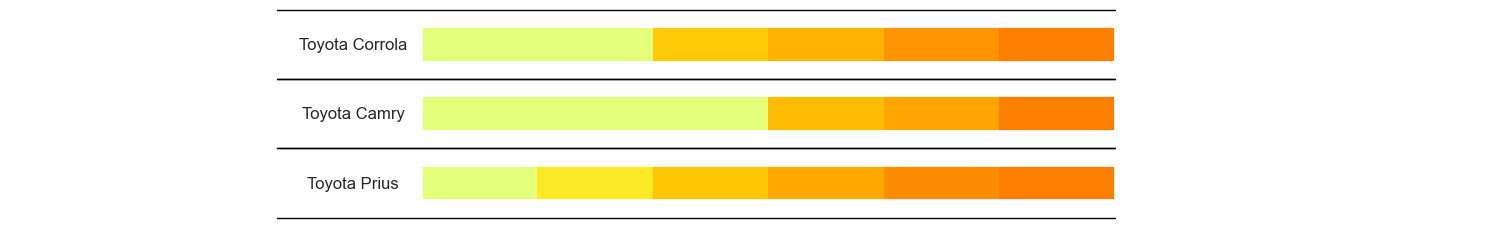
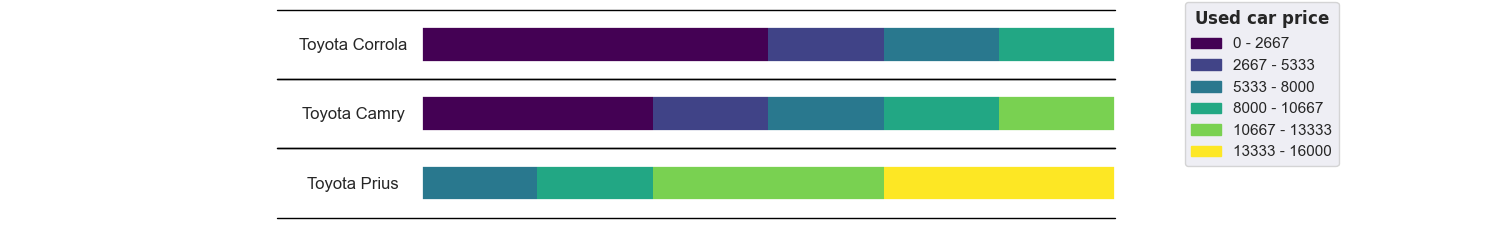
revamp readme

Changed region(s): [[0.276, 0.0933, 0.8893, 0.7467], [0.276, 0.7156, 0.7667, 0.9022], [0.7973, 0.0, 0.8893, 0.1244]]

diff --git a/pair_dot_plot.py b/pair_dot_plot.py
@@ -21,7 +21,15 @@ def make_new_df(df):
     df2['original_index'] = None
     return df2
 
-def dot_pair_plot(df, title, first_label, second_label):
+def dot_pair_plot(
+        df,
+        title,
+        first_label,
+        second_label,
+        color_one='#FC8D62',
+        color_two='#65C2A5'
+    ):
+
     df2 = make_new_df(df)
     fig, ax = plt.subplots(figsize=(8, 6), dpi=150)
     for i in df.index:
@@ -33,17 +41,17 @@ def dot_pair_plot(df, title, first_label, second_label):
                  linewidth=1)
 
         if (abs(x[0] - x[1]) < 1.0):
-            plt.text(x[0]+4, y[0], df.iloc[i, 2], horizontalalignment='left', verticalalignment='center', weight='bold')
-            plt.text(x[1]-4, y[1], df.iloc[i, 3], horizontalalignment='right', verticalalignment='center')
+            plt.text(x[0]+4, y[0], df.iloc[i, 2] + ' ({})'.format(df.iloc[i, 0]), horizontalalignment='left', verticalalignment='center', weight='bold')
+            plt.text(x[1]-4, y[1], df.iloc[i, 3] + ' ({})'.format(df.iloc[i, 1]), horizontalalignment='right', verticalalignment='center')
             df2.loc[df.index[i]] = df.iloc[i]
             df2.loc[df.index[i], 'original_index'] = i
             df = df.drop(df.index[[i]])
         elif x[0] > x[1]:
-            plt.text(x[0]+4, y[0], df.iloc[i, 2], horizontalalignment='left', verticalalignment='center', weight='bold')
-            plt.text(x[1]-4, y[1], df.iloc[i, 3], horizontalalignment='right', verticalalignment='center')
+            plt.text(x[0]+4, y[0], df.iloc[i, 2] + ' ({})'.format(df.iloc[i, 0]), horizontalalignment='left', verticalalignment='center', weight='bold')
+            plt.text(x[1]-4, y[1], df.iloc[i, 3] + ' ({})'.format(df.iloc[i, 1]), horizontalalignment='right', verticalalignment='center')
         else:
-            plt.text(x[0]-4, y[0], df.iloc[i, 2], horizontalalignment='right', verticalalignment='center', weight='bold')
-            plt.text(x[1]+4, y[1], df.iloc[i, 3], horizontalalignment='left', verticalalignment='center')
+            plt.text(x[0]-4, y[0], df.iloc[i, 2]  + ' ({})'.format(df.iloc[i, 0]), horizontalalignment='right', verticalalignment='center', weight='bold')
+            plt.text(x[1]+4, y[1], df.iloc[i, 3]  + ' ({})'.format(df.iloc[i, 1]), horizontalalignment='left', verticalalignment='center')
     if len(df2.index) != 0:
         x = df2.iloc[:, 0]
         y = df2['original_index']
@@ -54,19 +62,19 @@ def dot_pair_plot(df, title, first_label, second_label):
                  markersize=7,
                  fillstyle='full')
 
-    x = df.iloc[:, 0]
+    x = df.iloc[:, 1]
     y = df.index
     plt.plot(x, y,
-             color='#65C2A5',
+             color=color_one,
              linestyle='None',
              marker='o',
              markersize=7,
              fillstyle='full')
 
-    x = df.iloc[:, 1]
+    x = df.iloc[:, 0]
     y = df.index
     plt.plot(x, y,
-             color='#FC8D62',
+             color=color_two,
              linestyle='None',
              marker='o',
              markersize=7,
@@ -86,11 +94,11 @@ def dot_pair_plot(df, title, first_label, second_label):
              weight='bold')
     plt.text(-45, 11, first_label,
              horizontalalignment='left',
-             color='#FC8D62',
+             color=color_one,
              size=14)
     plt.text(60, 11, second_label,
              horizontalalignment='left',
-             color='#65C2A5',
+             color=color_two,
              size=14)
 
     return fig
@@ -102,11 +110,14 @@ def save_figure(fig, output_dir, filename, pad_inches=0.3):
                 pad_inches=pad_inches)
 
 if __name__ == '__main__':
+    # Example:
+    # https://aflcio.org/paywatch/highest-paid-ceos
+    # https://aflcio.org/paywatch/company-pay-ratios
     df = pd.read_csv('/home/rincon/Desktop/data.csv', header=None)
     output_dir = make_output_dir('/home/rincon/Desktop/data_dir')
     fig = dot_pair_plot(df,
-      'Annual Company Revenue and CEO Compensation',
-      'Company revenue in billions $',
-      'CEO pay in millions $'
+      'Annual CEO Compensation and Median Worker Pay',
+      'CEO pay in millions $',
+      'Worker pay in thousands $'
     )
-    save_figure(fig, output_dir, 'testerrr.png')
+    save_figure(fig, output_dir, 'test.png')

diff --git a/README.md b/README.md
@@ -106,13 +106,39 @@ from consumer_reports_plot import cr_plot
 
 cars = ['Toyota Corrola', 'Toyota Camry', 'Toyota Prius']
 years = [2015, 2016, 2017, 2018, 2019, 2020]
-samps = np.array([[0, 0, 5000, 7000, 10000, 12000],
-                [0, 0, 0, 5000, 7000, 10000],
+samps = np.array([[0, 0, 0, 5000, 7000, 10000],
+                [0, 0, 5000, 7000, 9000, 12000],
                 [7000, 9000, 11000, 13000, 15000, 16000]]
-            )
-output_path = 'car_tester.png'
-cr_plot(samps, cars, years, output_path)
+        )
+cr_plot(samps, cars, years, 'car_tester.png', colormap='viridis', title='Used \ car \ price')
 ```
 
 ### Plot:
 ![](output/car_tester.png)
+
+
+## pair_dot_plot.py
+
+Takes dataframe of magnitude normalized numeric data.
+
+### Usage
+
+```python
+
+import pair_dot_plot
+
+# Example:
+# https://aflcio.org/paywatch/highest-paid-ceos
+# https://aflcio.org/paywatch/company-pay-ratios
+df = pd.read_csv('/home/username/data.csv', header=None)
+output_dir = make_output_dir('/home/username/data_dir')
+fig = dot_pair_plot(df,
+  'Annual CEO Compensation and Median Worker Pay',
+  'CEO pay in millions $',
+  'Worker pay in thousands $'
+)
+save_figure(fig, output_dir, 'test.png')
+```
+
+### Plot:
+![](output/test.png)
